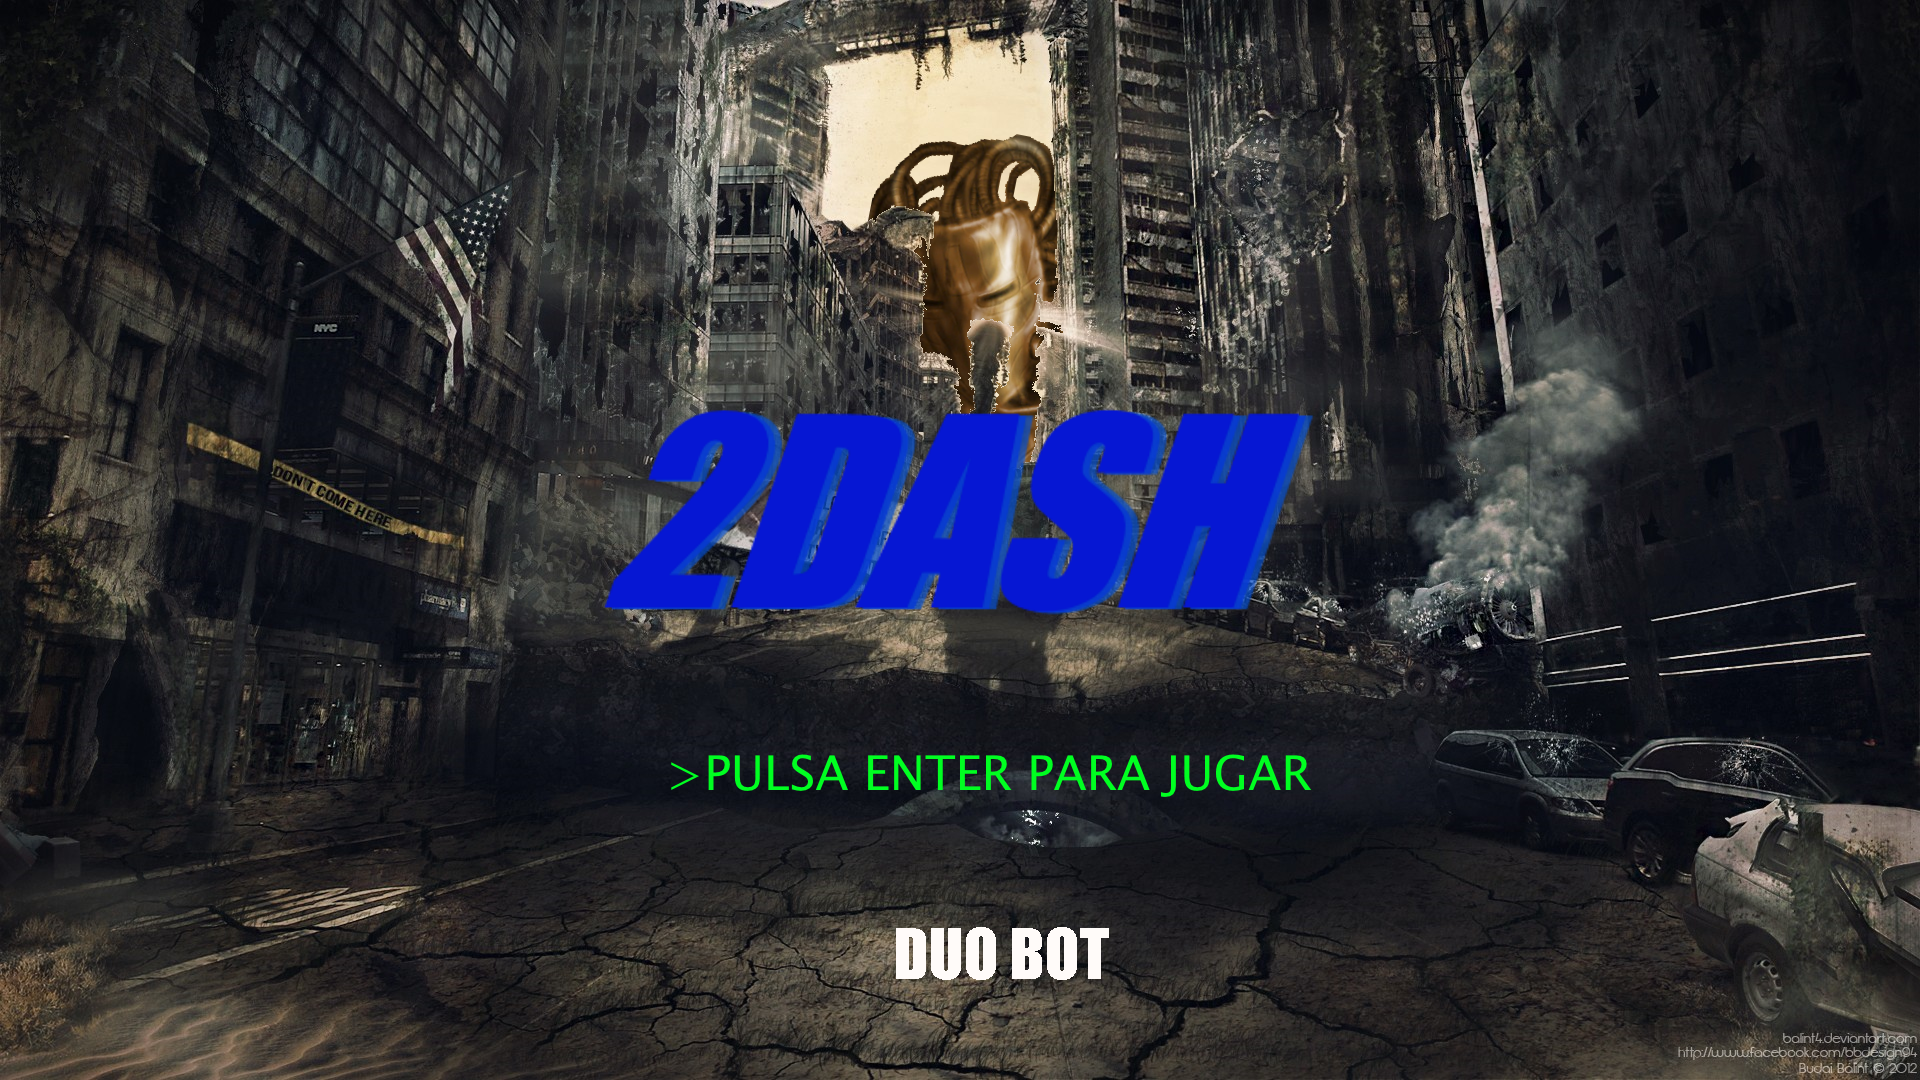
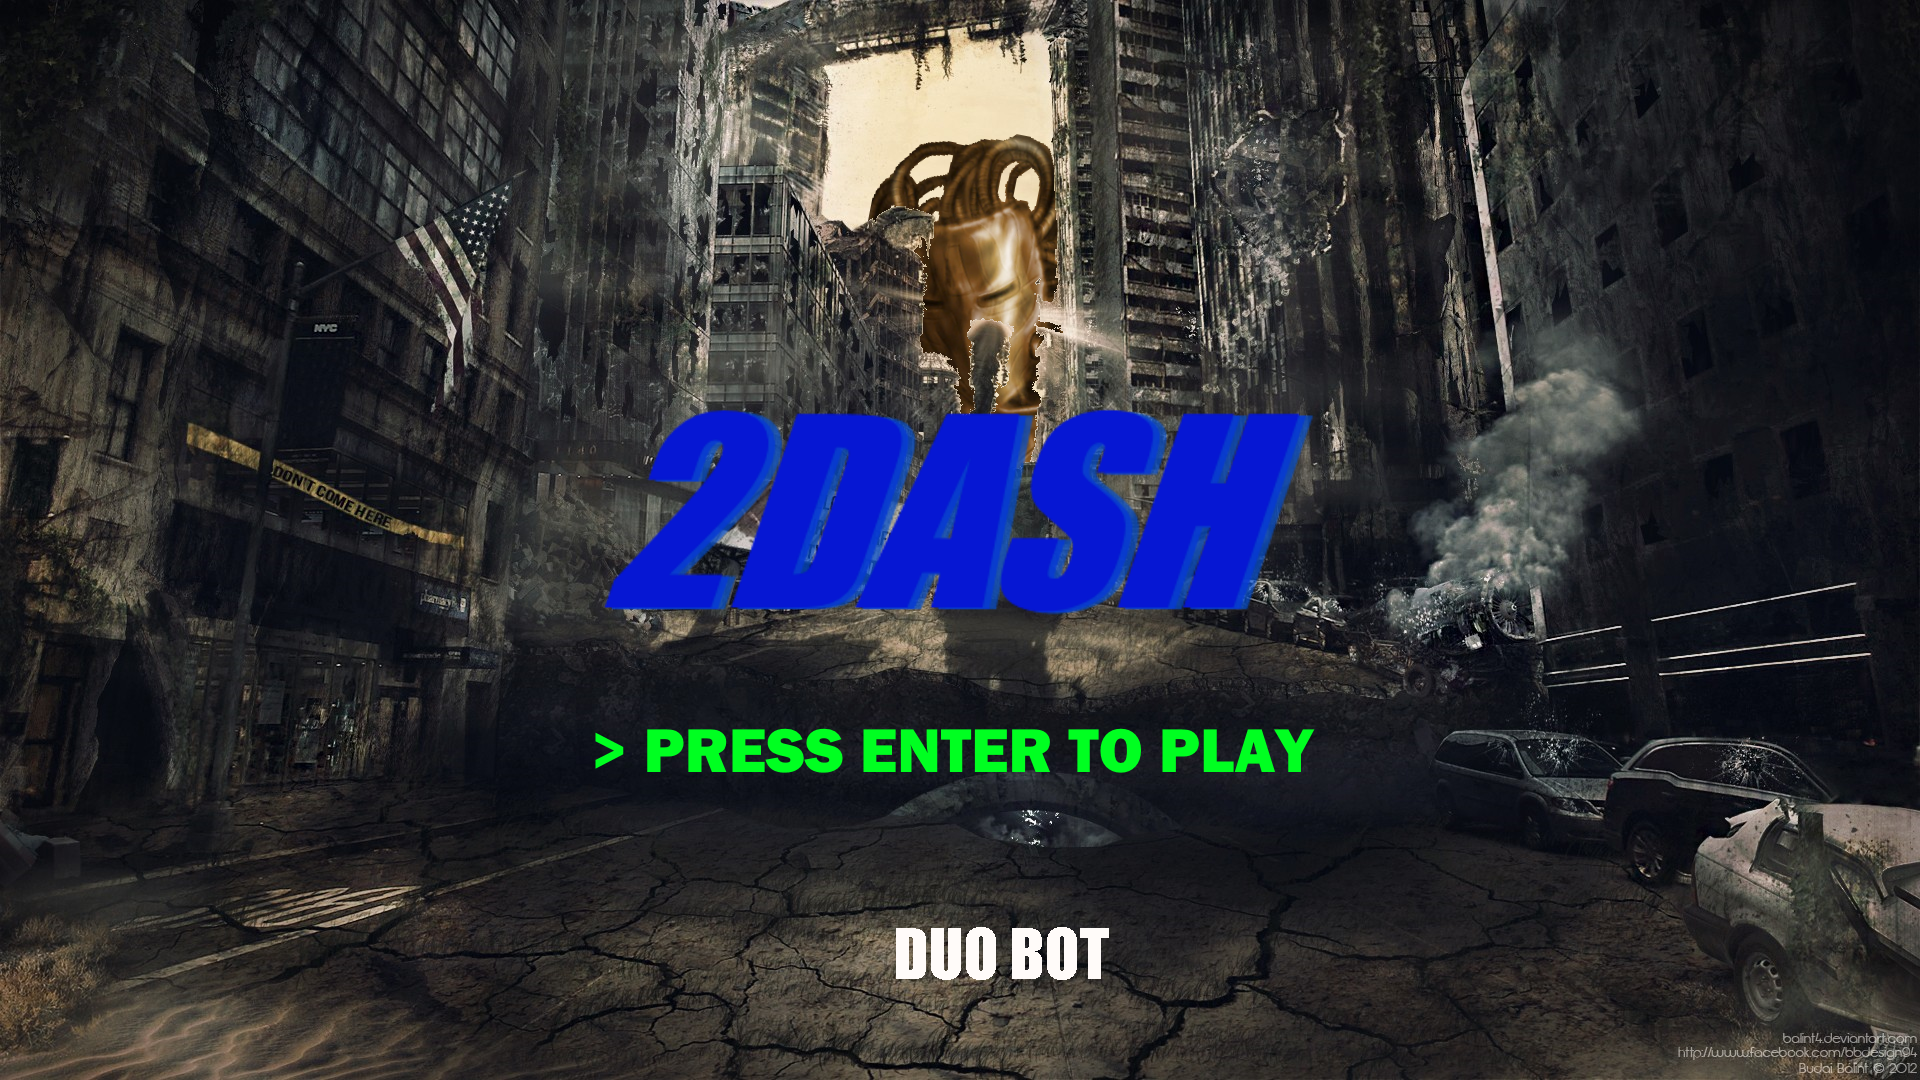
Traducido menú, cambiado sistema de ratings final.

Changed region(s): [[0.3125, 0.6722, 0.6875, 0.7333]]

diff --git a/docs/ResultsScreen.js b/docs/ResultsScreen.js
@@ -20,6 +20,14 @@ export default class ResultsScreen extends Phaser.Scene{
       
       //Final Score
       this.score = data.score;
-      this.scoreText = this.add.text(500, 450, "FINAL RATING: " + (Math.round((this.score * 1000) / this.timeNum)), {fill: "#aa00ff"}).setFontSize(40);
+      this.scoreText = this.add.text(535, 450, "FINAL RATING:", {fill: "#aa00ff"}).setFontSize(40);
+      let rate = this.add.image(700, 575, 'ratings');
+      rate.displayWidth = 150;
+      rate.displayHeight = 150;
+      let rating = Math.round((this.score * 1000) / this.timeNum);
+      console.log(rating);
+      if(rating > 10) rate.setFrame(6);
+      else if(rating < 3) rate.setFrame(0);
+      else rate.setFrame(rating - 3);
     }
 }

diff --git a/docs/LoadResources.js b/docs/LoadResources.js
@@ -31,6 +31,7 @@ export default class LoadResources extends Phaser.Scene{
         this.load.spritesheet('playerRun', './img/MachFoxRunSheet.png', {frameWidth: 32, frameHeight: 32});
         this.load.spritesheet('playerJump', './img/MachFoxJumpin.png', {frameWidth: 32, frameHeight: 32});
         this.load.spritesheet('electricity', './img/Electricity.png', {frameWidth: 32, frameHeight: 100});
+        this.load.spritesheet('ratings', './img/ratings.png', {frameWidth: 100, frameHeight: 100});
         this.load.image('shooter', './img/NotSoSharpShooter.png');
         this.load.image('bullet', './img/Bullet.png');
         this.load.image('misiluro', './img/Misiluro.png');

diff --git a/docs/MainMenu.js b/docs/MainMenu.js
@@ -5,7 +5,7 @@ export default class LoadResources extends Phaser.Scene{
 
     preload(){
         this.input = this.input.keyboard.addKeys('ENTER');
-        this.input.ENTER.on('down', event =>{this.scene.start('Nivel1');});
+        this.input.ENTER.on('down', event =>{this.scene.start('Nivel1')});
     }
 
     create(){
